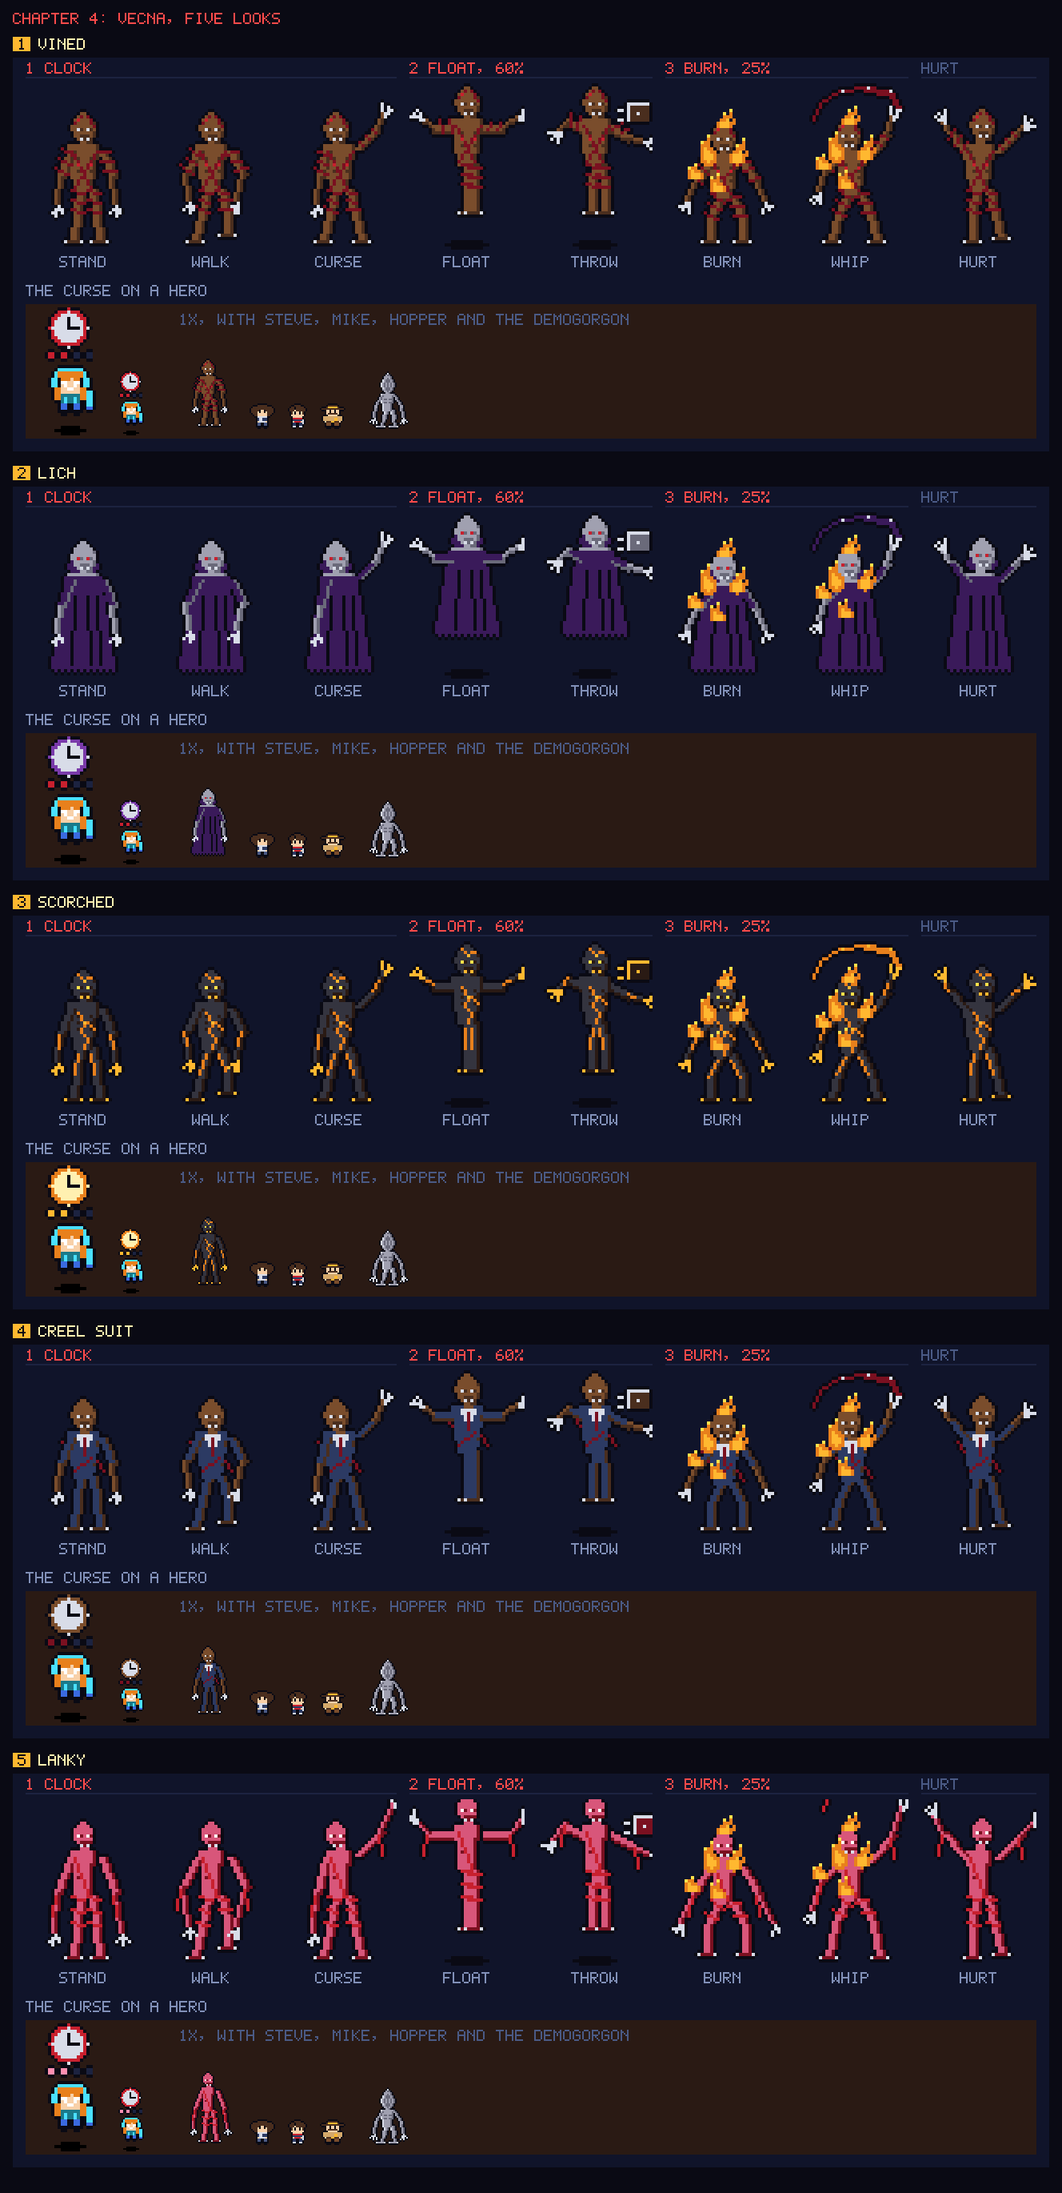
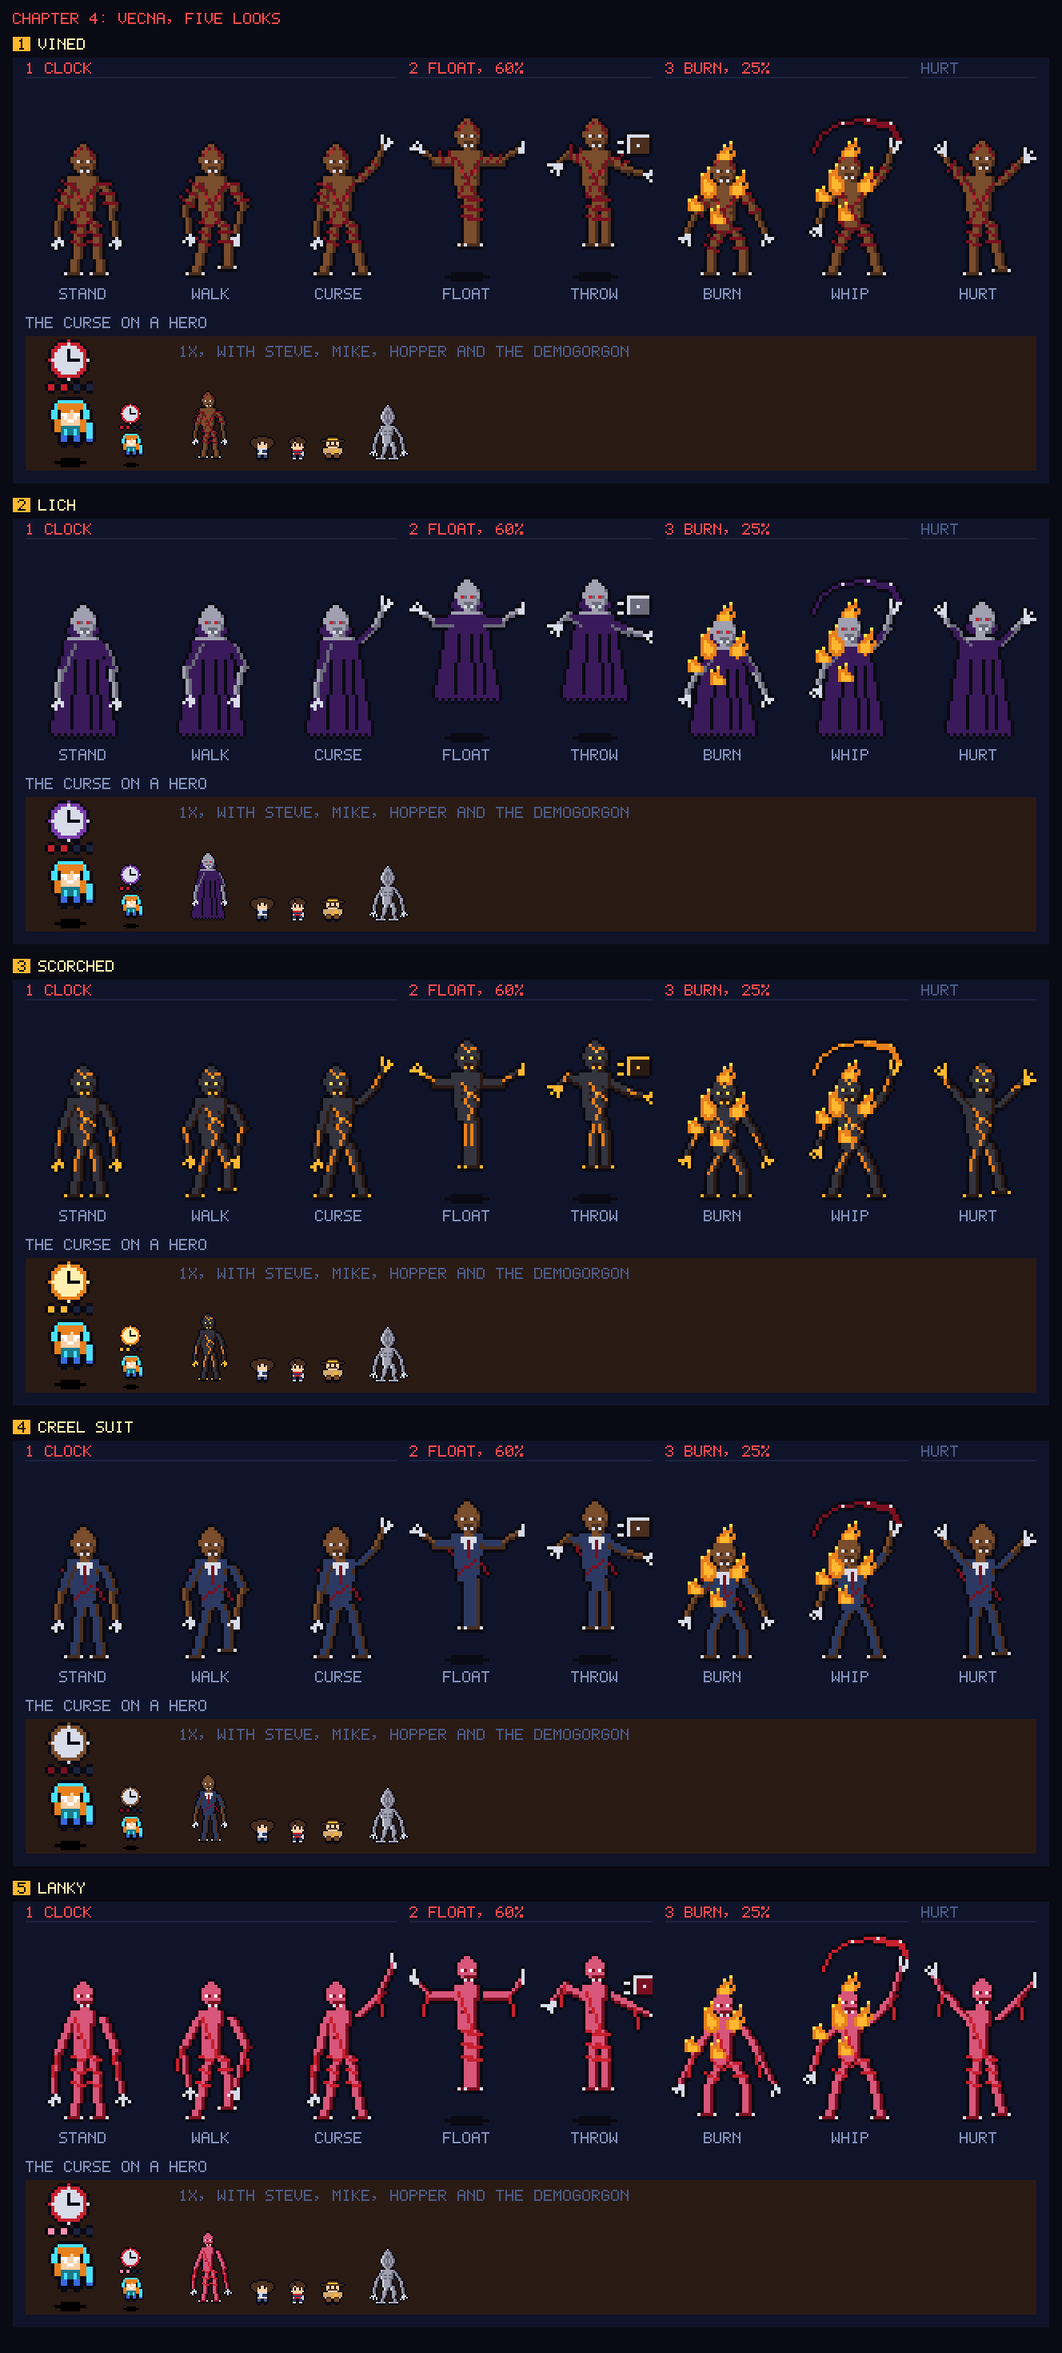
Pick Rooted for Vecna with writhing tendrils, and finish the chapter 4 draft
Rooted's four tendrils writhe in a loop of eight frames under every pose, a layer of their own, and the Vecna frame gets ten rows of headroom so the tips clear it when he floats. The card animates on the page and shows the loop as a row. docs/chapter-4.md now records every pick: Eddie Hellfire Club, the solo on The neck, Vecna Rooted, the pit Mine shaft, Kamchatka Blizzard, the Creel House in three skins by time, and Hawkins in Blue storm.

Changed region(s): [[0.0309, 0.2172, 0.988, 0.9927], [0.0, 0.0, 0.9571, 0.1861]]

diff --git a/src/gfx/var/vecna_scary.ts b/src/gfx/var/vecna_scary.ts
@@ -41,12 +41,24 @@ function veins(px: Px, r: VRig, vine: ColorName, glow: ColorName): void {
   px.set(nx - 3, ny + 5, glow).set(nx + 1, ny + 10, glow);
 }
 
-/** Tendrils rising off his back past the shoulders and curling out, n a side; drawn behind him. */
-function tendrils(px: Px, r: VRig, vine: ColorName, n: number, tall: number): void {
+/** Frames in a tendril's writhe. */
+export const WRITHE = 8;
+
+/**
+ * Tendrils rising off his back past the shoulders and curling out, n a side, drawn behind him. With a phase they writhe: the
+ * root stays on the shoulder, the middle sways a px, the tip two, each tendril out of step with the others, a loop of WRITHE
+ * frames. In the game this is a layer of its own under every body frame, so it loops whatever pose he's in.
+ */
+function tendrils(px: Px, r: VRig, vine: ColorName, n: number, tall: number, phase = 0): void {
   for (let k = 0; k < n; k++) {
     for (const s of [-1, 1]) {
-      const [sx, sy] = r.arms[s < 0 ? 0 : 1][0], o = k * 3;
-      const pts: Pt[] = [[sx - s * 2, sy + 2], [sx + s * (1 + o), sy - 4 - o], [sx + s * (4 + o), sy - tall - o], [sx + s * (3 + o), sy - tall - 4 - o]];
+      const [sx, sy] = r.arms[s < 0 ? 0 : 1][0], o = k * 3, a = ((phase % WRITHE) / WRITHE) * Math.PI * 2 + k * 1.9 + (s > 0 ? 2.4 : 0);
+      const sway = (amp: number, lag: number): number => Math.round(Math.sin(a - lag) * amp);
+      const lift = Math.round(Math.cos(a - 1.2) * 1);
+      const pts: Pt[] = [
+        [sx - s * 2, sy + 2], [sx + s * (1 + o) + sway(1, 0), sy - 4 - o],
+        [sx + s * (4 + o) + sway(1.6, 0.6), sy - tall - o], [sx + s * (3 + o) + sway(2.4, 1.2), sy - tall - 4 - o + lift],
+      ];
       for (let i = 0; i + 1 < pts.length; i++) seg(px, pts[i] as Pt, pts[i + 1] as Pt, i === 0 ? 2 : 1, vine, null);
     }
   }
@@ -55,13 +67,13 @@ function tendrils(px: Px, r: VRig, vine: ColorName, n: number, tall: number): vo
 // ---------------------------------------------------------------- 1. Gaunt
 const GAUNT_COLS: VCols = { G: 'soil2', D: 'soil0', B: 'bone', E: 'hot' };
 const GAUNT: VecnaOpt = {
-  slug: 'gaunt', name: 'Gaunt',
+  slug: 'gaunt', name: 'Gaunt', loop: WRITHE,
   note: 'The show\'s Vecna, darker: deep brown flesh with black shadow, hunched, a skull of a head with glowing red points for eyes and bare teeth, long claws, veins that glow at the forks, and two tendrils rising off his back.',
   cols: GAUNT_COLS,
   mark: { ring: 'red', face: 'bone', pip: 'red' },
   draw: make({
     cols: GAUNT_COLS, vine: 'blood1', stretch: hunch, body: { claw: 4.6 },
-    before: (px, r) => tendrils(px, r, 'blood1', 1, 8),
+    before: (px, r, _pose, phase) => tendrils(px, r, 'blood1', 1, 8, phase),
     dress(px, r) {
       veins(px, r, 'blood1', 'hot');
       for (const t of [...r.arms, ...r.legs]) wrap(px, [t[0], t[1], t[1]] as Tri, 'blood1', 4);
@@ -95,13 +107,13 @@ const FLAYED: VecnaOpt = {
 // ---------------------------------------------------------------- 3. Rooted
 const ROOTED_COLS: VCols = { G: 'grey2', D: 'grey1', B: 'bone', E: 'red' };
 const ROOTED: VecnaOpt = {
-  slug: 'rooted', name: 'Rooted',
+  slug: 'rooted', name: 'Rooted', loop: WRITHE,
   note: 'Ash grey, as if the Upside Down had dried him out, hunched under four tall dark red tendrils that rise behind him like a crown, roots running from his feet into the floor, red points for eyes. The biggest outline.',
   cols: ROOTED_COLS,
   mark: { ring: 'blood1', face: 'bone', pip: 'red' },
   draw: make({
     cols: ROOTED_COLS, vine: 'blood1', stretch: hunch, body: { claw: 4.6 },
-    before: (px, r) => tendrils(px, r, 'blood1', 2, 12),
+    before: (px, r, _pose, phase) => tendrils(px, r, 'blood1', 2, 12, phase),
     dress(px, r) {
       veins(px, r, 'blood1', 'red');
       if (!r.lift) for (const t of r.legs) { const [fx, fy] = t[2]; px.line(fx - 1, fy, fx - 5, fy + 1, 'blood1').line(fx + 2, fy, fx + 6, fy + 1, 'blood1'); }

diff --git a/src/gfx/var/vecna.ts b/src/gfx/var/vecna.ts
@@ -39,8 +39,12 @@ function cursed(o: VecnaOpt): Px {
   return p;
 }
 
+/** The extra row a design that moves on its own gets: its stand pose through the whole loop at 2x. */
+const LOOP_H = 16 + VH * K + 8;
+
 export function vecnaCard(o: VecnaOpt): Made {
-  const { c, g } = cardCanvas(VECNA_W, VECNA_H, 'night');
+  const loop = o.loop ?? 0, H = VECNA_H + (loop ? LOOP_H : 0);
+  const { c, g } = cardCanvas(VECNA_W, H, 'night');
   for (const [name, i0, n] of PHASES) {
     const x = GAP + i0 * FX, w = n * FX - GAP;
     g.fillStyle = PAL.shadow;
@@ -49,7 +53,6 @@ export function vecnaCard(o: VecnaOpt): Made {
   }
   POSE_ORDER.forEach((pose, i) => {
     const x = GAP + i * FX, name = pose.toUpperCase();
-    zoom(g, o.draw(pose), x, 16, K);
     label(g, name, x + Math.round((VW * K - name.length * 6) / 2), 16 + VH * K + 4, 'mist');
   });
   label(g, 'THE CURSE ON A HERO', GAP, ROW2, 'mist');
@@ -62,11 +65,33 @@ export function vecnaCard(o: VecnaOpt): Made {
   label(g, '1X, WITH STEVE, MIKE, HOPPER AND THE DEMOGORGON', sx, ROW2 + 18, 'slate');
   const friends: CharSpec[] = [STEVE, KIDS[0]!, HOPPER];
   const base = ROW2 + 12 + 78;
-  flat(g, o.draw('stand'), sx, base - VH);
   friends.forEach((s, i) => flat(g, paintRoles(composeFrame(s, 'down', 'idle', 0), 16, s.pal), sx + 44 + i * 22, base - 16));
   const demo = composeDemo('down', 'stand', 0, false);
   flat(g, demo, sx + 44 + 3 * 22 + 4, base - demo.h);
+  if (loop) {
+    const ly = VECNA_H;
+    label(g, `THE TENDRILS WRITHE IN EVERY POSE, A LOOP OF ${loop} FRAMES`, GAP, ly, 'hot');
+    for (let f = 0; f < Math.min(loop, POSE_ORDER.length); f++) {
+      const x = GAP + f * FX;
+      zoom(g, o.draw('stand', f), x, ly + 12, K);
+      label(g, String(f + 1), x + VW * K / 2 - 3, ly + 12 + VH * K - 2, 'slate');
+    }
+  }
+  /** The poses and the 1x figure, which move when the design has a loop. */
+  const draw = (phase: number): void => {
+    POSE_ORDER.forEach((pose, i) => {
+      const x = GAP + i * FX;
+      g.fillStyle = PAL.night;
+      g.fillRect(x, 16, VW * K, VH * K);
+      zoom(g, o.draw(pose, phase), x, 16, K);
+    });
+    g.fillStyle = PAL.soil0;
+    g.fillRect(sx, base - VH, VW, VH);
+    flat(g, o.draw('stand', phase), sx, base - VH);
+  };
+  draw(0);
   c.setAttribute('data-snap', `vecna-${o.slug}`);
   c.setAttribute('aria-label', `Vecna, ${o.name}: stand, walk, curse, float, throw, burn, whip and hurt, his curse on Max, and Vecna at real size beside the heroes and the Demogorgon`);
-  return { canvas: c, meta: `${colorsOf(o)} fill colors and the ink outline. The fire in the Burn phase is an effect drawn over him.` };
+  const meta = `${colorsOf(o)} fill colors and the ink outline. The fire in the Burn phase is an effect drawn over him.${loop ? ' The tendrils are a layer of their own behind him, so they loop under every pose.' : ''}`;
+  return loop ? { canvas: c, draw, meta } : { canvas: c, meta };
 }

diff --git a/src/gfx/var/vecna_opts.ts b/src/gfx/var/vecna_opts.ts
@@ -5,7 +5,7 @@
 // over a hero.
 import type { ColorName } from '../palette.ts';
 import { Px } from '../px.ts';
-import { POSES, body, finish, onFire, seg, wrap } from './vecna_kit.ts';
+import { POSES, TOP, VH, VW, body, finish, lowered, onFire, seg, wrap } from './vecna_kit.ts';
 import type { BodyOpts, Pt, Tri, VCols, VPose, VRig } from './vecna_kit.ts';
 
 export interface VecnaOpt {
@@ -15,7 +15,10 @@ export interface VecnaOpt {
   cols: VCols;
   /** The clock over a cursed hero: rim, face, and the sounded chimes. */
   mark: { ring: ColorName; face: ColorName; pip: ColorName };
-  draw(pose: VPose): Px;
+  /** phase counts up for anything that moves on its own, like tendrils that writhe in every pose. */
+  draw(pose: VPose, phase?: number): Px;
+  /** Frames in the loop of what moves on its own, if anything does. */
+  loop?: number;
 }
 
 export interface Spec {
@@ -24,20 +27,20 @@ export interface Spec {
   stretch?: (r: VRig) => VRig;
   body?: BodyOpts;
   /** Drawn first, so the body covers it: tendrils behind him. */
-  before?: (px: Px, r: VRig, pose: VPose) => void;
-  dress?: (px: Px, r: VRig, pose: VPose) => void;
+  before?: (px: Px, r: VRig, pose: VPose, phase: number) => void;
+  dress?: (px: Px, r: VRig, pose: VPose, phase: number) => void;
 }
 
 /** The vine whip cracking over his head from the raised hand, relative to the hand. */
 const WHIP: Pt[] = [[2, -3], [-1, -8], [-8, -9], [-16, -8], [-22, -4], [-24, 1]];
 
-export function make(s: Spec): (pose: VPose) => Px {
-  return (pose) => {
-    const r = s.stretch ? s.stretch(POSES[pose]) : POSES[pose];
-    const fig = new Px(36, 52);
-    s.before?.(fig, r, pose);
+export function make(s: Spec): (pose: VPose, phase?: number) => Px {
+  return (pose, phase = 0) => {
+    const r = lowered(s.stretch ? s.stretch(POSES[pose]) : POSES[pose], TOP);
+    const fig = new Px(VW, VH);
+    s.before?.(fig, r, pose, phase);
     body(fig, r, s.cols, s.body);
-    s.dress?.(fig, r, pose);
+    s.dress?.(fig, r, pose, phase);
     if (pose === 'whip') {
       const [hx, hy] = r.arms[1][2];
       const pts = WHIP.map(([x, y]) => [hx + x, hy + y] as Pt);
@@ -90,7 +93,7 @@ const LICH: VecnaOpt = {
     body: {
       legs: false, arm: 'purple0',
       mid(px, r) {
-        const top = r.neck[1] + 1, bot = r.lift ? 46 : 49;
+        const top = r.neck[1] + 1, bot = (r.lift ? 46 : 49) + TOP;
         for (let y = top; y <= bot; y++) {
           const u = (y - top) / (bot - top), hw = r.shW + 0.5 + u * 4.5, cx = r.neck[0];
           const x0 = Math.round(cx - hw), x1 = Math.round(cx + hw);

diff --git a/vecna-variations.html b/vecna-variations.html
@@ -16,11 +16,11 @@
   <p class="muted">Each card is drawn by the game's own pixel tools, in five fill colors and the ink outline, like the Demogorgon. The top row is 2x, grouped by phase. Under it is the curse on Max, with two of the four chimes sounded, and Vecna at his real size beside the heroes and the Demogorgon.</p>
 </div></header>
 
-<div class="bar"><div class="wrap"><span>Scarier Vined</span><span id="pick2">none yet</span><span>First round</span><span id="pick">1 Vined</span></div></div>
+<div class="bar"><div class="wrap"><span>Scarier Vined</span><span id="pick2"><b>3 Rooted</b></span><span>First round</span><span id="pick">1 Vined</span><label class="chk"><input id="anim" type="checkbox" checked> Move the tendrils</label></div></div>
 
 <main class="wrap">
   <h2 class="sec">Vined, scarier</h2>
-  <p class="sub">You picked Vined and asked for him scarier. All three hunch him, sink his head between his shoulders, lengthen his arms and claws, and give him a skull: a big cranium over a narrow jaw, black sockets with glowing points, bare teeth. Pick one by name.</p>
+  <p class="sub">You picked Vined and asked for him scarier, then Rooted, with the tendrils behind him moving all the time. All three hunch him, sink his head between his shoulders, lengthen his arms and claws, and give him a skull: a big cranium over a narrow jaw, black sockets with glowing points, bare teeth. Gaunt and Rooted's tendrils writhe in every pose.</p>
   <div class="list" id="cards2"></div>
   <h2 class="sec">The first round</h2>
   <p class="sub">The five looks you picked Vined from.</p>
@@ -34,7 +34,7 @@ import { mountSheet } from '/src/gfx/var/ch4_page.ts';
 import { VECNA_SCARY } from '/src/gfx/var/vecna_scary.ts';
 
 initGfx();
-mountSheet({ opts: VECNA_SCARY, width: VECNA_W, title: 'Chapter 4: Vecna, Vined made scarier', file: 'ch4-vecna-scary', make: vecnaCard, listId: 'cards2', pickId: 'pick2', global: '__scary' });
+mountSheet({ opts: VECNA_SCARY, width: VECNA_W, title: 'Chapter 4: Vecna, Vined made scarier', file: 'ch4-vecna-scary', make: vecnaCard, listId: 'cards2', pickId: 'pick2', global: '__scary', tick: 120 });
 mountSheet({ opts: VECNA_OPTS, width: VECNA_W, title: 'Chapter 4: Vecna, five looks', file: 'ch4-vecna', make: vecnaCard });
 </script>
 </body>

diff --git a/src/gfx/var/vecna_kit.ts b/src/gfx/var/vecna_kit.ts
@@ -7,7 +7,9 @@
 import type { ColorName } from '../palette.ts';
 import { Px } from '../px.ts';
 
-export const VW = 36, VH = 52;
+/** The rigs are drawn in a 36 by 52 box with his feet on row 49; the frame adds TOP rows of headroom above it, for tendrils. */
+export const TOP = 10;
+export const VW = 36, VH = 52 + TOP;
 export type Pt = readonly [number, number];
 export type Tri = readonly [Pt, Pt, Pt];
 export type VPose = 'stand' | 'walk' | 'curse' | 'float' | 'throw' | 'burn' | 'whip' | 'hurt';
@@ -126,10 +128,17 @@ export function wrap(px: Px, t: Tri, col: ColorName, every = 3): void {
   }
 }
 
-/** The finished frame: the figure lifted by r.lift and outlined, a flat shadow left on the floor. */
+/** The same rig moved down by d rows, into the frame's headroom. */
+export function lowered(r: VRig, d: number): VRig {
+  const m = (p: Pt): Pt => [p[0], p[1] + d];
+  const t = (x: Tri): Tri => [m(x[0]), m(x[1]), m(x[2])];
+  return { ...r, head: m(r.head), neck: m(r.neck), waist: m(r.waist), arms: [t(r.arms[0]), t(r.arms[1])], legs: [t(r.legs[0]), t(r.legs[1])] };
+}
+
+/** The finished frame: the figure (drawn on a VW by VH buffer from a lowered rig) lifted by r.lift and outlined, a flat shadow left on the floor. */
 export function finish(fig: Px, r: VRig, fire?: (p: Px) => void): Px {
   const out = new Px(VW, VH);
-  if (r.lift) out.ellipse(18, 50.5, 7, 1.5, 'ink');
+  if (r.lift) out.ellipse(18, 50.5 + TOP, 7, 1.5, 'ink');
   const f = fig.outline('ink');
   out.blit(f, 0, -r.lift);
   if (fire) {

diff --git a/docs/chapter-4.md b/docs/chapter-4.md
@@ -34,7 +34,7 @@ He joins at the party's average level minus one. The recruit scene is in the Hel
 
 ### The Hellfire solo as a note highway
 
-The owner's call: the solo plays as a retro Guitar Hero. While Eddie plays, a note highway shows and notes come down it to a strum line. A note hit on time crits (the NAT 20 floater over what the ring hits) and widens the ring; a miss shrinks it. A streak counter shows under the strum line. The 4.3 rooftop is the same highway for a whole song, with the demobats as the pressure.
+The owner's call: the solo plays as a retro Guitar Hero. While Eddie plays, a note highway shows and notes come down it to a strum line. A note hit on time crits (the NAT 20 floater over what the ring hits) and widens the ring; a miss shrinks it. A streak counter keeps count beside the highway. The 4.3 rooftop is the same highway for a whole song, with the demobats as the pressure.
 
 - **Layout: The neck** (owner's pick, `solo-variations.html`). The highway is the neck of his Flying V, coming out from under him toward the player in perspective: dark wood, fret wires that scroll, inlay dots, three lanes. Notes start small at the far end and grow as they come, and hit three strum targets on a bone line near the bottom of the screen. The streak counter sits to the left of the neck, HIT over the struck target.
 - **Lanes and inputs.** Three lanes on Attack, Special and Crit (keys Z, X, Space; pad A, X, Y; touch A, B and the d20), colored like the HUD: Attack red, Special blue like the MP bar, Crit gold like the d20. Eddie is planted while he plays, so movement does nothing during the solo; a rebinding of the three actions moves the lanes with it.
@@ -66,7 +66,7 @@ It builds over the chapter.
 
 **The ways out.** Max's Walkman (below), anywhere. The marked memory orb, in the Vecna fight. Open: what breaks a curse in 4.3 for a party without Max (a proposal: smash or riff the clock that chimed).
 
-**The look** of the clock mark follows the Vecna pick (`vecna-variations.html`): each design has its own colors for the rim, the face and the sounded chimes.
+**The look** of the clock mark follows the Vecna pick: Rooted's is a dark red rim, a bone face and red for the sounded chimes.
 
 ### Max's Walkman
 
@@ -83,10 +83,14 @@ Hopper alone against a Demogorgon in a pit under the prison, with only his hayma
 | Phase | From | What he does | How you answer |
 |---|---|---|---|
 | 1 Clock | 100% | Walks slowly behind his vines. The clock chimes and curses a hero. Memory orbs heal him | Break the orbs, the marked one first. Burn the vines. The Walkman |
-| 2 Float | 60% | Rises out of melee reach and throws debris. The vines spread | Ranged heroes and Eddie's ring reach him (Eddie is gone by 4.4, so Lucas, Nancy, Eleven, Will). Breaking the orbs pulls him down |
+| 2 Float | 60% | Rises out of melee reach and throws debris. The vines spread | Ranged heroes reach him: Lucas, Nancy, Eleven, Will. Breaking the orbs pulls him down |
 | 3 Burn | 25% | On fire. The vine whips speed up and the clock chimes twice as fast | Keep a hero clear of the curse, finish him |
 
-Look: pending the pick from `vecna-variations.html` (Vined, Lich, Scorched, Creel suit, Lanky). Each design is drawn in stand, walk and the curse (Clock), float and the throw (Float), burning and the vine whip (Burn), and hurt. The fire is an effect drawn over him, so the sprite keeps five colors.
+Look: **Rooted** (owner's pick, `vecna-variations.html`, `src/gfx/var/vecna_scary.ts`), reached in two rounds: Vined from the first five, then Rooted from three scarier takes on it. He is hunched, his head sunk between raised shoulders, with long arms and long bone claws. His head is a skull: a big cranium over a narrow jaw, a heavy brow, black sockets with red points for eyes, a bare row of teeth, vines over the dome. Ash grey flesh, as if the Upside Down had dried him out, wound with dark red vines that branch down his chest, and roots running from his feet into the floor. Five fill colors: grey, dark grey, bone, red, dark red.
+
+- **The tendrils move all the time** (the owner's call). Four tall dark red tendrils rise behind his shoulders like a crown and writhe in a loop of eight frames: the root stays on the shoulder, the middle sways a pixel, the tip two, each out of step with the others. In the game they are a layer of their own drawn under every body frame, so they loop whatever pose he is in, floating and burning included. The frame is 36 by 62, with ten rows of headroom over him for the tips.
+- **Poses**, as drawn on the sheet: stand, walk and the curse (Clock), float and the throw (Float), burning and the vine whip (Burn), and hurt. The fire is an effect drawn over him, so the sprite keeps five colors.
+- **His clock** over a cursed hero: a dark red rim, a bone face, red for the sounded chimes.
 
 ## Foes
 
@@ -103,7 +107,7 @@ Look: pending the pick from `vecna-variations.html` (Vined, Lich, Scorched, Cree
 |---|---|---|
 | Eddie | `eddie-variations.html` | **1 Hellfire Club** |
 | The solo's note highway | `solo-variations.html` | **2 The neck** |
-| Vecna | `vecna-variations.html` | **1 Vined**, made scarier (three takes pending) |
+| Vecna | `vecna-variations.html` | **1 Vined**, then **3 Rooted** of the scarier takes, with the tendrils writhing |
 | The Demogorgon pit | `pit-variations.html` | **4 Mine shaft** |
 | Kamchatka | `kamchatka-variations.html` | **1 Blizzard** |
 | The Creel House | `creel-variations.html` | **2 Abandoned** now (4.2), **4 Upside Down** for the lair (4.4), **3 Blood red** for memories |
